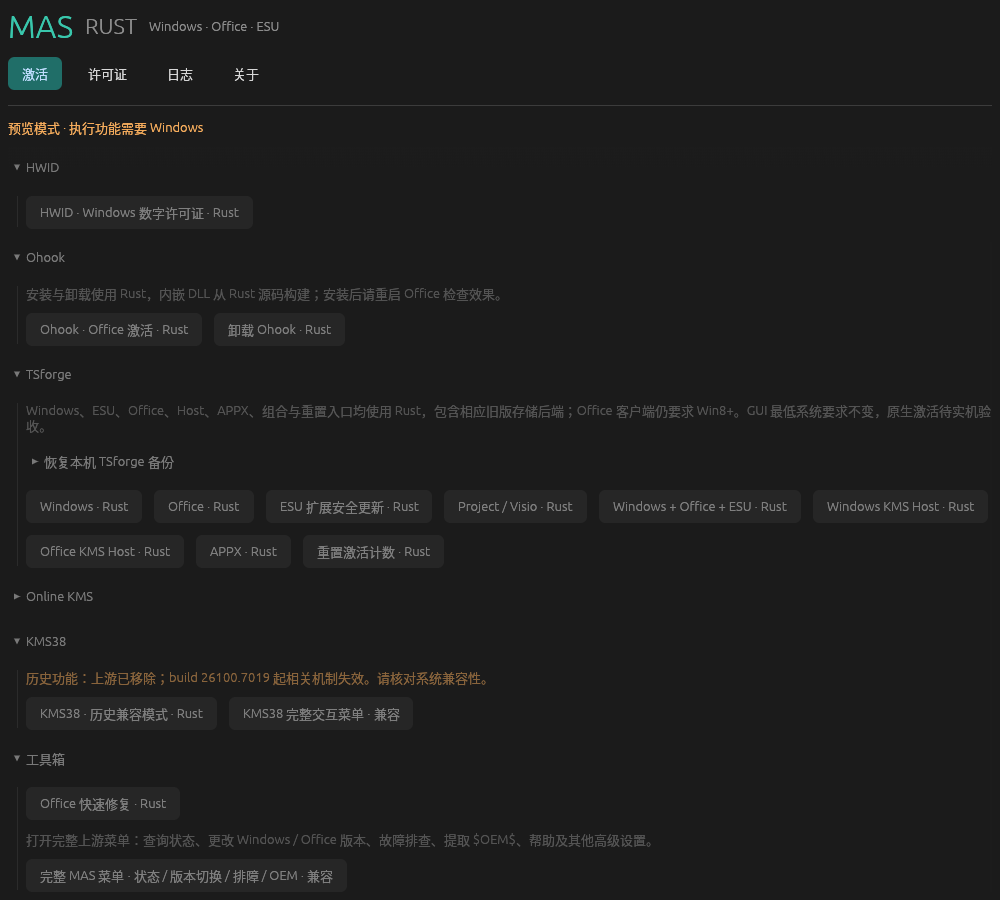
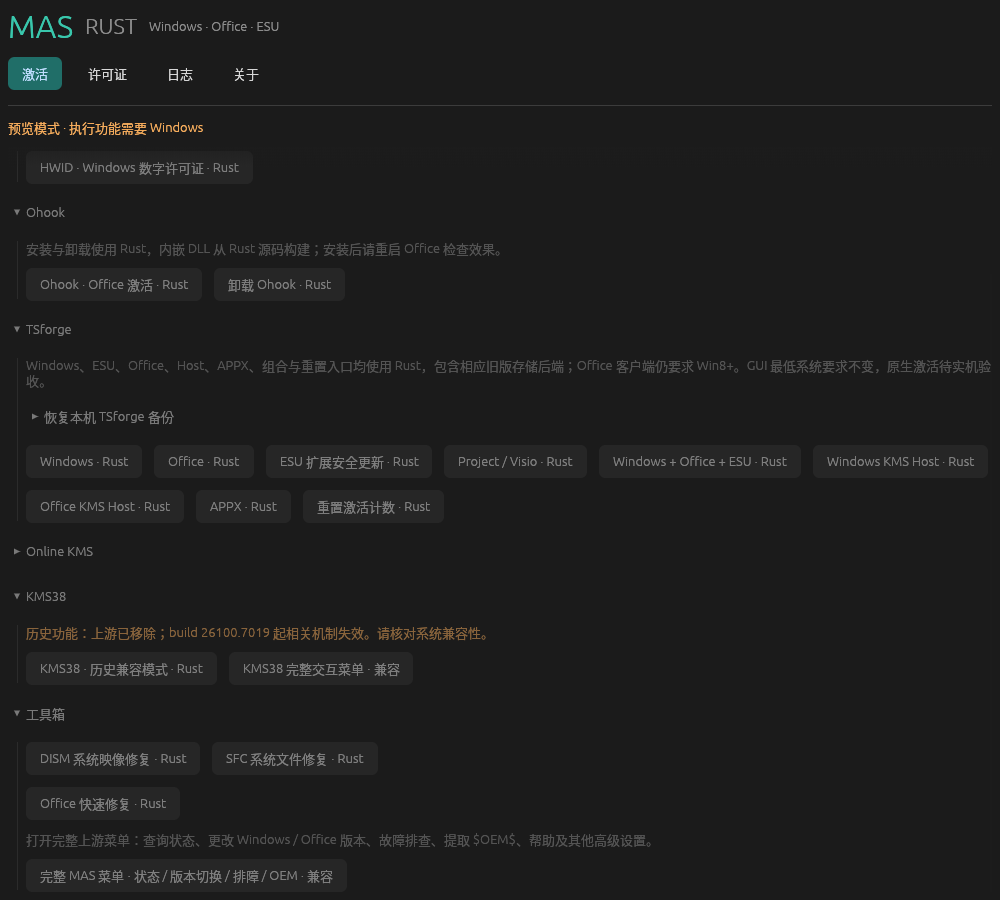
Add native DISM and SFC repair execution with diagnostic snapshots

diff --git a/src/native/system_repair.rs b/src/native/system_repair.rs
@@ -1,0 +1,260 @@
+//! DISM/SFC repair plans and lossless diagnostic log capture.
+#![cfg_attr(not(test), allow(dead_code))]
+use std::{
+    fs::{File, OpenOptions},
+    io::{self, Read, Write},
+    path::Path,
+};
+#[derive(Clone, Copy, Debug, PartialEq, Eq)]
+pub enum Kind {
+    Dism,
+    Sfc,
+}
+impl Kind {
+    pub fn executable(self) -> &'static str {
+        match self {
+            Self::Dism => "dism.exe",
+            Self::Sfc => "sfc.exe",
+        }
+    }
+    pub fn args(self) -> &'static [&'static str] {
+        match self {
+            Self::Dism => &["/English", "/Online", "/Cleanup-Image", "/RestoreHealth"],
+            Self::Sfc => &["/scannow"],
+        }
+    }
+    pub fn validate(self, build: u32) -> Result<(), String> {
+        if build < 6000 || (self == Self::Dism && build < 9200) {
+            Err("当前系统不支持此修复命令；DISM RestoreHealth 需要 Windows 8 或更高版本。".into())
+        } else {
+            Ok(())
+        }
+    }
+    pub fn logs(self) -> &'static [&'static str] {
+        match self {
+            Self::Dism => &["CBS/CBS.log", "DISM/dism.log"],
+            Self::Sfc => &["CBS/CBS.log"],
+        }
+    }
+    pub fn result(self, code: i32) -> Result<String, String> {
+        match code {
+            0 => Ok(format!(
+                "{} 已退出（0）；请检查命令输出和诊断日志确认修复结果。",
+                self.executable()
+            )),
+            3010 if self == Self::Dism => {
+                Ok("DISM 报告操作完成并需要重启（3010）；程序不会自动重启。".into())
+            }
+            code => Err(format!(
+                "{} 退出码 {code}（0x{:08X}）；请检查诊断日志。",
+                self.executable(),
+                code as u32
+            )),
+        }
+    }
+}
+const MAX_LOG: u64 = 512 * 1024 * 1024;
+/// Preserve raw bytes (including UTF-16 output), never truncate a source log.
+pub fn snapshot(source: &Path, destination: &Path) -> io::Result<bool> {
+    let mut input = match File::open(source) {
+        Ok(file) => file,
+        Err(e) if e.kind() == io::ErrorKind::NotFound => return Ok(false),
+        Err(e) => return Err(e),
+    };
+    if !input.metadata()?.is_file() {
+        return Err(io::Error::other("diagnostic source is not a regular file"));
+    }
+    let length = input.metadata()?.len();
+    if length > MAX_LOG {
+        return Err(io::Error::other("diagnostic log exceeds 512 MiB limit"));
+    }
+    let mut output = OpenOptions::new()
+        .write(true)
+        .create_new(true)
+        .open(destination)?;
+    let copied = io::copy(&mut (&mut input).take(length), &mut output)?;
+    output.flush()?;
+    output.sync_all()?;
+    if copied != length {
+        return Err(io::Error::other(
+            "diagnostic log changed during snapshot; copy may be incomplete",
+        ));
+    }
+    Ok(true)
+}
+pub fn capture(kind: Kind, log_root: &Path, directory: &Path, phase: &str) -> Vec<String> {
+    let mut errors = vec![];
+    for relative in kind.logs() {
+        let name = relative.replace('/', "_");
+        let destination = directory.join(format!("{phase}_{name}"));
+        match snapshot(&log_root.join(relative), &destination) {
+            Ok(true) => {}
+            Ok(false) => errors.push(format!("{relative} 尚不存在")),
+            Err(e) => errors.push(format!("复制 {relative}：{e}")),
+        }
+    }
+    errors
+}
+#[cfg(windows)]
+pub fn run(kind: Kind, report: &dyn Fn(&str)) -> Result<String, String> {
+    use std::{
+        os::windows::process::CommandExt,
+        process::{Command, Stdio},
+        time::{Duration, Instant},
+    };
+    use windows::Win32::{
+        System::Com::CoTaskMemFree,
+        UI::Shell::{FOLDERID_Desktop, KF_FLAG_DEFAULT, SHGetKnownFolderPath},
+    };
+    let _guard = super::session::OperationGuard::acquire()?;
+    if !crate::process::is_admin() {
+        return Err("请以管理员身份运行".into());
+    }
+    if std::env::var("PROCESSOR_ARCHITEW6432").is_ok_and(|v| !v.is_empty()) {
+        return Err("系统修复不支持跨架构仿真。".into());
+    }
+    let version = super::registry::Key::open(
+        r"SOFTWARE\Microsoft\Windows NT\CurrentVersion",
+        0x100,
+        false,
+    )?
+    .ok_or("无法读取 Windows 版本")?;
+    let build = version
+        .string("CurrentBuildNumber")?
+        .ok_or("缺少构建号")?
+        .parse()
+        .map_err(|_| "构建号无效")?;
+    kind.validate(build)?;
+    let executable = super::platform::system_file(kind.executable())?;
+    if !executable.is_absolute() || !executable.is_file() {
+        return Err("找不到系统修复程序".into());
+    }
+    let raw = unsafe { SHGetKnownFolderPath(&FOLDERID_Desktop, KF_FLAG_DEFAULT, None) }
+        .map_err(|e| e.to_string())?;
+    let desktop = unsafe { raw.to_string() };
+    unsafe { CoTaskMemFree(Some(raw.0.cast())) };
+    let root = std::path::PathBuf::from(desktop.map_err(|e| e.to_string())?).join("AT_Logs");
+    std::fs::create_dir_all(&root).map_err(|e| e.to_string())?;
+    let directory = root.join(format!(
+        "{:?}-{}",
+        kind,
+        uuid::Uuid::from_u128({
+            use rsa::rand_core::{OsRng, RngCore};
+            let mut bytes = [0u8; 16];
+            OsRng
+                .try_fill_bytes(&mut bytes)
+                .map_err(|e| e.to_string())?;
+            u128::from_le_bytes(bytes)
+        })
+    ));
+    std::fs::create_dir(&directory).map_err(|e| e.to_string())?;
+    let system = super::platform::system_file("")?;
+    let log_root = system.parent().ok_or("系统目录无效")?.join("Logs");
+    report(&format!("诊断日志：{}", directory.display()));
+    for warning in capture(kind, &log_root, &directory, "before") {
+        report(&format!("修复前日志：{warning}"));
+    }
+    let output_path = directory.join("command-output.bin");
+    let output = OpenOptions::new()
+        .write(true)
+        .create_new(true)
+        .open(&output_path)
+        .map_err(|e| e.to_string())?;
+    let stderr = output.try_clone().map_err(|e| e.to_string())?;
+    report(&format!(
+        "正在执行 {} {}；可能持续十几分钟或更久。",
+        executable.display(),
+        kind.args().join(" ")
+    ));
+    let mut child = Command::new(executable)
+        .args(kind.args())
+        .creation_flags(0x08000000)
+        .stdin(Stdio::null())
+        .stdout(Stdio::from(output))
+        .stderr(Stdio::from(stderr))
+        .spawn()
+        .map_err(|e| format!("启动修复失败：{e}；日志：{}", directory.display()))?;
+    let started = Instant::now();
+    let mut next_report = Duration::from_secs(15);
+    let status = loop {
+        match child.try_wait() {
+            Ok(Some(status)) => break status,
+            Ok(None) => {}
+            Err(e) => {
+                return Err(format!(
+                    "读取修复进程状态失败：{e}；进程可能仍在运行，请勿重复启动；日志：{}",
+                    directory.display()
+                ));
+            }
+        }
+        if started.elapsed() >= next_report {
+            report(&format!(
+                "系统修复仍在运行，已等待 {} 秒；输出保存在 {}",
+                started.elapsed().as_secs(),
+                output_path.display()
+            ));
+            next_report = started.elapsed() + Duration::from_secs(15);
+        }
+        std::thread::sleep(Duration::from_secs(1));
+    };
+    for warning in capture(kind, &log_root, &directory, "after") {
+        report(&format!("修复后日志：{warning}"));
+    }
+    let code = status
+        .code()
+        .ok_or_else(|| format!("修复进程没有退出码；日志：{}", directory.display()))?;
+    let result = kind.result(code);
+    let summary = match &result {
+        Ok(s) | Err(s) => s,
+    };
+    let summary = format!(
+        "{summary}\n日志：{}\n命令输出保存为原始字节；SFC 可能使用 UTF-16。系统日志未删除，未自动重启。",
+        directory.display()
+    );
+    std::fs::write(directory.join("result.txt"), &summary)
+        .map_err(|e| format!("{summary}\n保存摘要失败：{e}"))?;
+    result.map(|_| summary.clone()).map_err(|_| summary)
+}
+#[cfg(test)]
+mod tests {
+    use super::*;
+    #[test]
+    fn command_support_and_status_do_not_claim_verified_repairs() {
+        assert!(Kind::Dism.validate(7601).is_err());
+        assert!(Kind::Dism.validate(9200).is_ok());
+        assert!(Kind::Sfc.validate(7601).is_ok());
+        assert_eq!(
+            Kind::Dism.args(),
+            ["/English", "/Online", "/Cleanup-Image", "/RestoreHealth"]
+        );
+        assert_eq!(Kind::Sfc.args(), ["/scannow"]);
+        assert!(Kind::Dism.result(3010).unwrap().contains("重启"));
+        assert!(Kind::Sfc.result(3010).is_err());
+        assert!(Kind::Sfc.result(0).unwrap().contains("检查"));
+        assert!(Kind::Dism.result(-1).unwrap_err().contains("FFFFFFFF"));
+    }
+    #[test]
+    fn snapshots_preserve_bytes_and_never_overwrite_existing_files() {
+        let temp = tempfile::tempdir().unwrap();
+        let source = temp.path().join("source.log");
+        let target = temp.path().join("copy.log");
+        assert!(!snapshot(&source, &target).unwrap());
+        let bytes = [0xff, 0xfe, 0x2d, 0x4e, 0, 0];
+        std::fs::write(&source, bytes).unwrap();
+        assert!(snapshot(&source, &target).unwrap());
+        assert_eq!(std::fs::read(&target).unwrap(), bytes);
+        assert_eq!(
+            snapshot(&source, &target).unwrap_err().kind(),
+            io::ErrorKind::AlreadyExists
+        );
+        assert_eq!(std::fs::read(&source).unwrap(), bytes);
+        assert_eq!(
+            capture(Kind::Dism, temp.path(), temp.path(), "after").len(),
+            2
+        );
+        assert_eq!(
+            capture(Kind::Sfc, temp.path(), temp.path(), "after").len(),
+            1
+        );
+    }
+}

diff --git a/src/app.rs b/src/app.rs
@@ -27,6 +27,7 @@ enum Job {
     License(Product, Action),
     RestoreBackup(String),
     RepairOffice,
+    RepairSystem(crate::native::system_repair::Kind),
 }
 
 pub struct MasApp {
@@ -76,6 +77,7 @@ impl MasApp {
                 ctx.request_repaint();
             };
             let result = match job {
+                Job::RepairSystem(kind) => engine::repair_system(kind, &report),
                 Job::RepairOffice => engine::repair_office(&report),
                 Job::Engine(op, options) => engine::run(op, options, &report),
                 Job::RestoreBackup(path) => engine::restore_tsforge(&path, &report),
@@ -125,6 +127,12 @@ impl MasApp {
                     ui.colored_label(Color32::from_rgb(245,172,92), "历史功能：上游已移除；build 26100.7019 起相关机制失效。请核对系统兼容性。");
                 }
                 if category == "Ohook" {ui.label("安装与卸载使用 Rust，内嵌 DLL 从 Rust 源码构建；安装后请重启 Office 检查效果。");}
+                if category == "工具箱" {
+                    ui.horizontal(|ui| {
+                        if ui.button("DISM 系统映像修复 · Rust").clicked() { self.pending = Some(Job::RepairSystem(crate::native::system_repair::Kind::Dism)); }
+                        if ui.button("SFC 系统文件修复 · Rust").clicked() { self.pending = Some(Job::RepairSystem(crate::native::system_repair::Kind::Sfc)); }
+                    });
+                }
                 if category == "工具箱" && ui.button("Office 快速修复 · Rust").clicked() { self.pending = Some(Job::RepairOffice); }
                 if category == "TSforge" { ui.label("Windows、ESU、Office、Host、APPX、组合与重置入口均使用 Rust，包含相应旧版存储后端；Office 客户端仍要求 Win8+。GUI 最低系统要求不变，原生激活待实机验收。"); }
                 if category == "Online KMS" {
@@ -378,6 +386,10 @@ impl MasApp {
                                     "KMS38 是历史实现，新系统可能不支持。",
                                 );
                             }
+                        }
+                        Job::RepairSystem(kind) => {
+                            ui.label(format!("系统修复：{kind:?}"));
+                            ui.label("将修改系统组件或系统文件，可能持续十几分钟或更久，请保持程序开启。建议先运行 DISM，再运行 SFC。DISM 可能使用 Windows Update 下载修复文件，需要可用网络。原始输出及修复前后诊断日志保存在桌面 AT_Logs；不自动重启。");
                         }
                         Job::RepairOffice => {
                             ui.label("Office 快速修复");

diff --git a/src/engine.rs b/src/engine.rs
@@ -257,6 +257,21 @@ pub fn run(op: Operation, options: Options, report: &dyn Fn(&str)) -> Result<Str
     run_compatibility(op, options, report)
 }
 
+pub fn repair_system(
+    kind: crate::native::system_repair::Kind,
+    report: &dyn Fn(&str),
+) -> Result<String, String> {
+    #[cfg(windows)]
+    {
+        crate::native::system_repair::run(kind, report)
+    }
+    #[cfg(not(windows))]
+    {
+        let _ = (kind, report);
+        Err("系统修复需要在 Windows 上运行".into())
+    }
+}
+
 pub fn repair_office(report: &dyn Fn(&str)) -> Result<String, String> {
     #[cfg(windows)]
     {

diff --git a/build.rs b/build.rs
@@ -135,7 +135,7 @@ fn main() {
             .set("LegalCopyright", "MAS Rust contributors")
             .set_manifest(
                 r#"<assembly xmlns="urn:schemas-microsoft-com:asm.v1" manifestVersion="1.0">
-  <assemblyIdentity version="0.6.0.18" processorArchitecture="*" name="MAS.Rust" type="win32"/>
+  <assemblyIdentity version="0.6.0.19" processorArchitecture="*" name="MAS.Rust" type="win32"/>
   <description>MAS Rust</description>
   <trustInfo xmlns="urn:schemas-microsoft-com:asm.v3">
     <security>

diff --git a/src/native/mod.rs b/src/native/mod.rs
@@ -48,3 +48,5 @@ pub mod tsforge;
 
 #[cfg(any(windows, test))]
 pub mod office_repair;
+
+pub mod system_repair;
